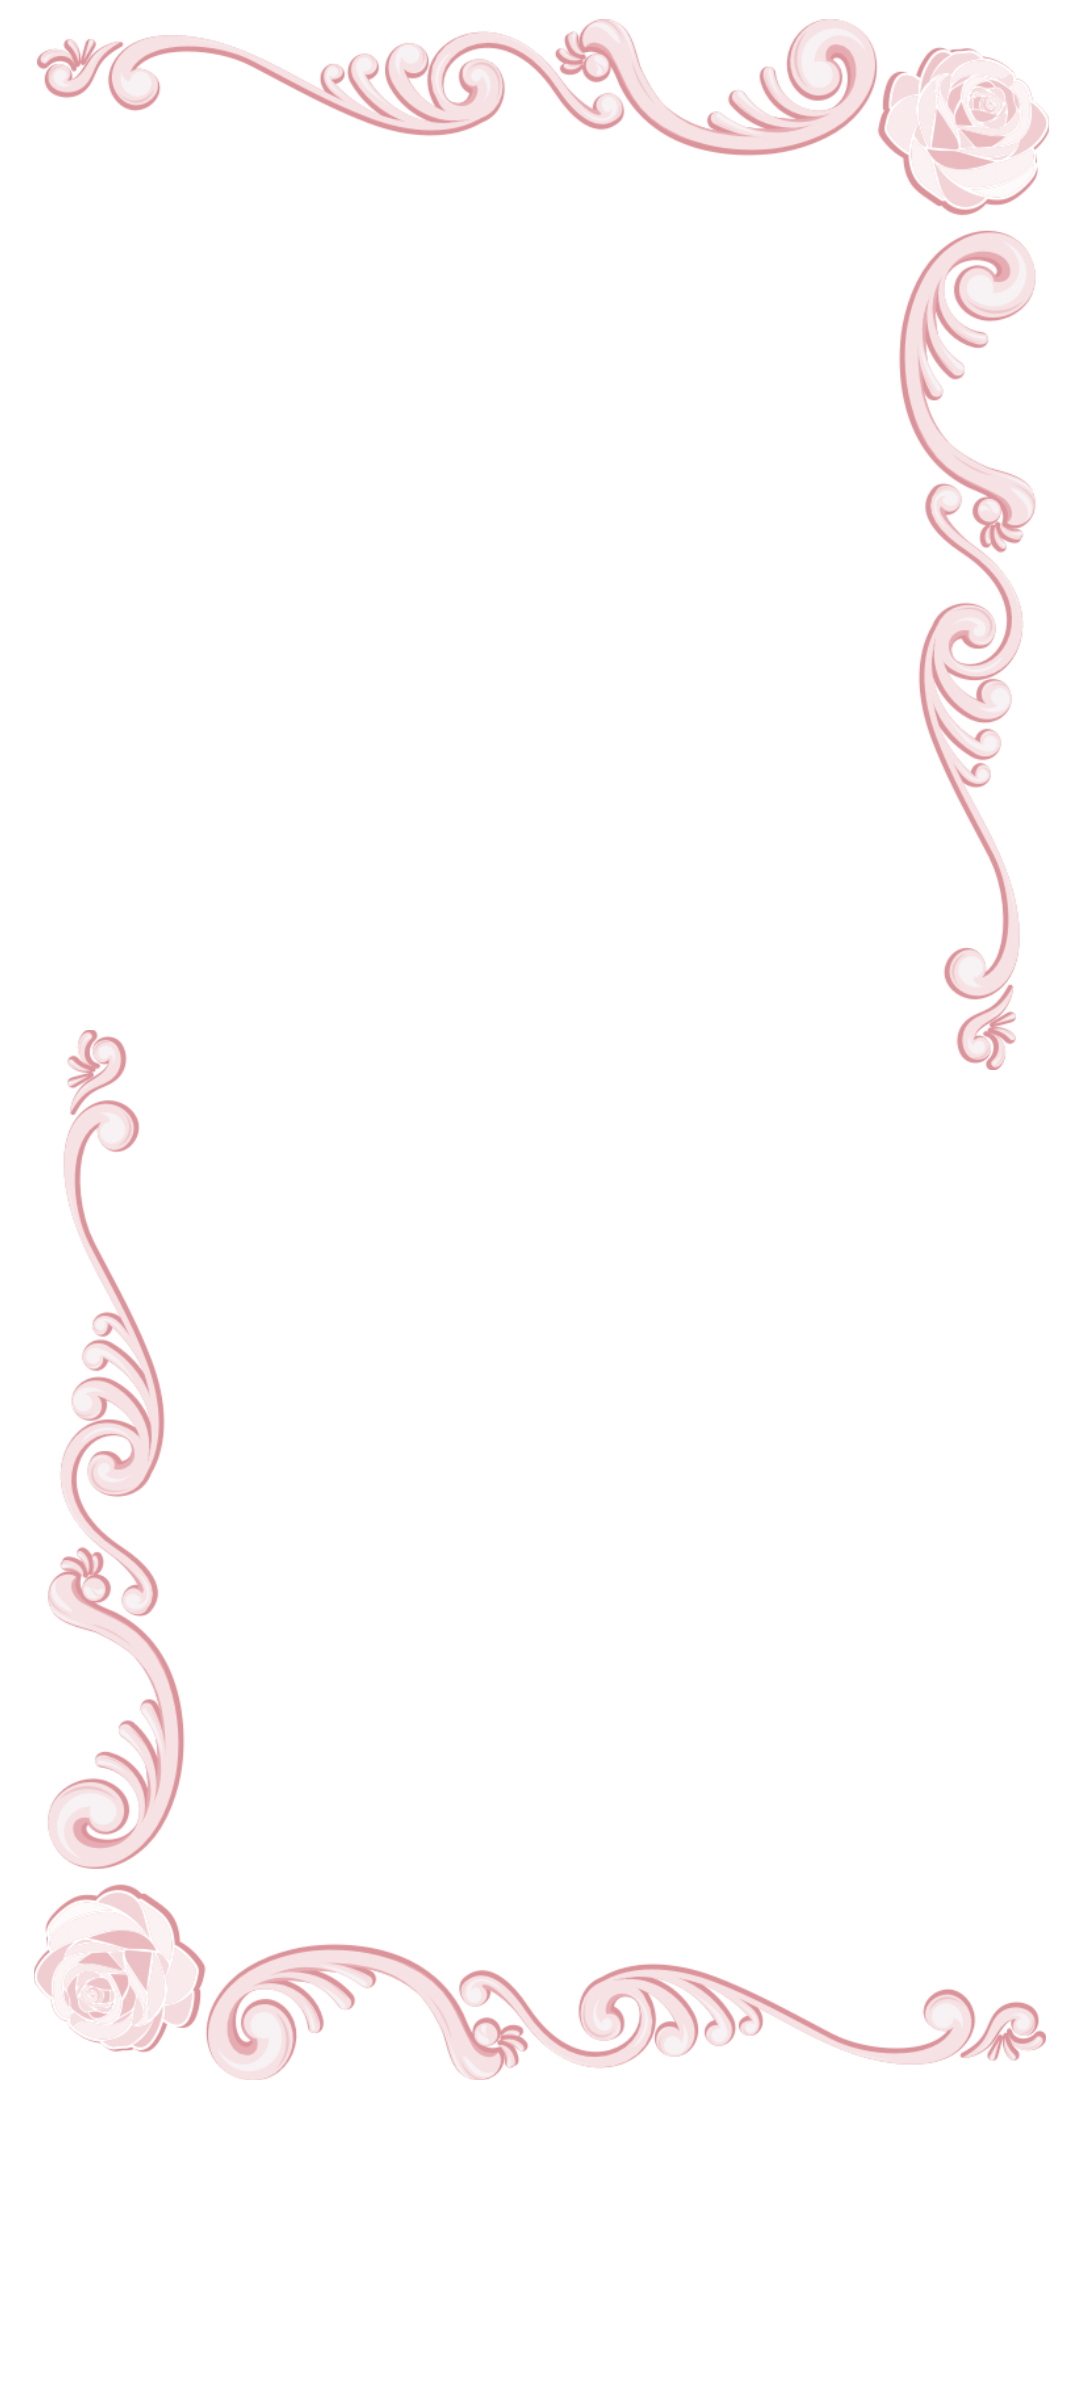
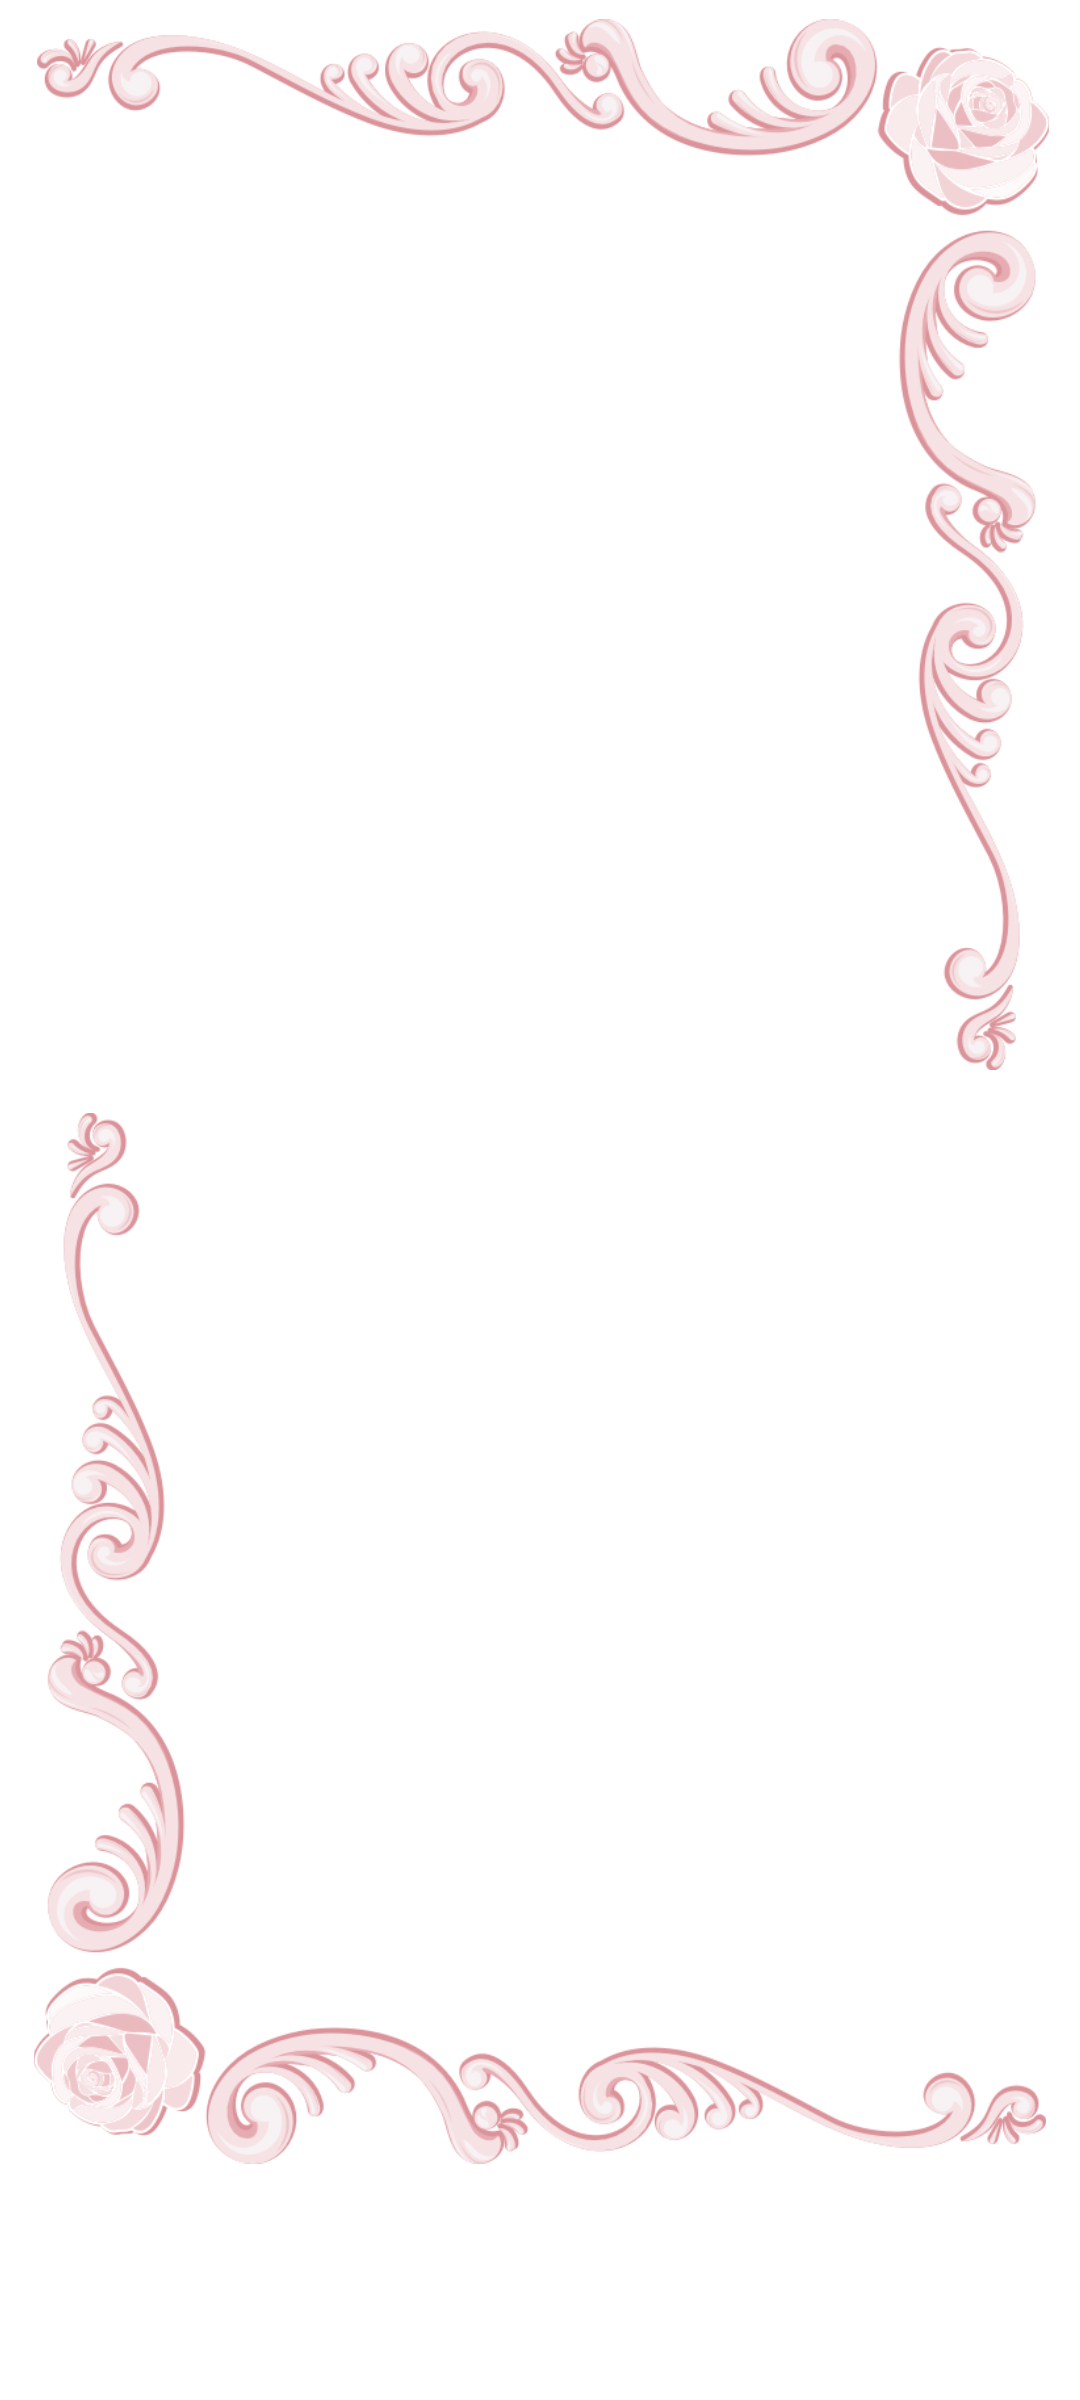
fix: immediately load youtube autoplay, accelerate auto-scroll, hide music button on cover

Changed region(s): [[0.0306, 0.4062, 0.9778, 0.9062]]

diff --git a/client/src/components/MusicPlayer.jsx b/client/src/components/MusicPlayer.jsx
@@ -1,6 +1,6 @@
 import { useEffect, useRef, useState } from 'react'
 
-export default function MusicPlayer({ playing }) {
+export default function MusicPlayer({ playing, showButton = true }) {
   const [isMuted, setIsMuted] = useState(false)
   const iframeRef = useRef(null)
 
@@ -24,10 +24,10 @@ export default function MusicPlayer({ playing }) {
       <iframe
         ref={iframeRef}
         className="absolute opacity-0 pointer-events-none w-0 h-0"
-        src="https://www.youtube.com/embed/iZpZDivj6SU?enablejsapi=1&loop=1&playlist=iZpZDivj6SU"
+        src="https://www.youtube.com/embed/iZpZDivj6SU?autoplay=1&enablejsapi=1&loop=1&playlist=iZpZDivj6SU"
         allow="autoplay"
       />
-      {playing && (
+      {playing && showButton && (
         <button
           onClick={toggleMusic}
           className={`fixed bottom-[80px] right-4 z-50 w-10 h-10 rounded-full bg-cream shadow-md border border-pink flex items-center justify-center transition-all ${

diff --git a/client/src/App.jsx b/client/src/App.jsx
@@ -123,7 +123,7 @@ function TabContent({ tab }) {
 
 export default function App() {
   const [opened, setOpened] = useState(false)
-  const [playMusic, setPlayMusic] = useState(false)
+  const [playMusic, setPlayMusic] = useState(true)
   const [tab, setTab] = useState('home')
   const contentRef = useRef(null)
 
@@ -154,7 +154,7 @@ export default function App() {
           }),
         }}
       >
-        <MusicPlayer playing={playMusic} />
+        <MusicPlayer playing={playMusic} showButton={opened} />
         {!opened ? (
           /* Cover fills full height — overlay khas Cover diurus oleh CoverBackground */
           <Cover onOpen={() => { setOpened(true); setTab('home') }} onMusicStart={() => setPlayMusic(true)} />